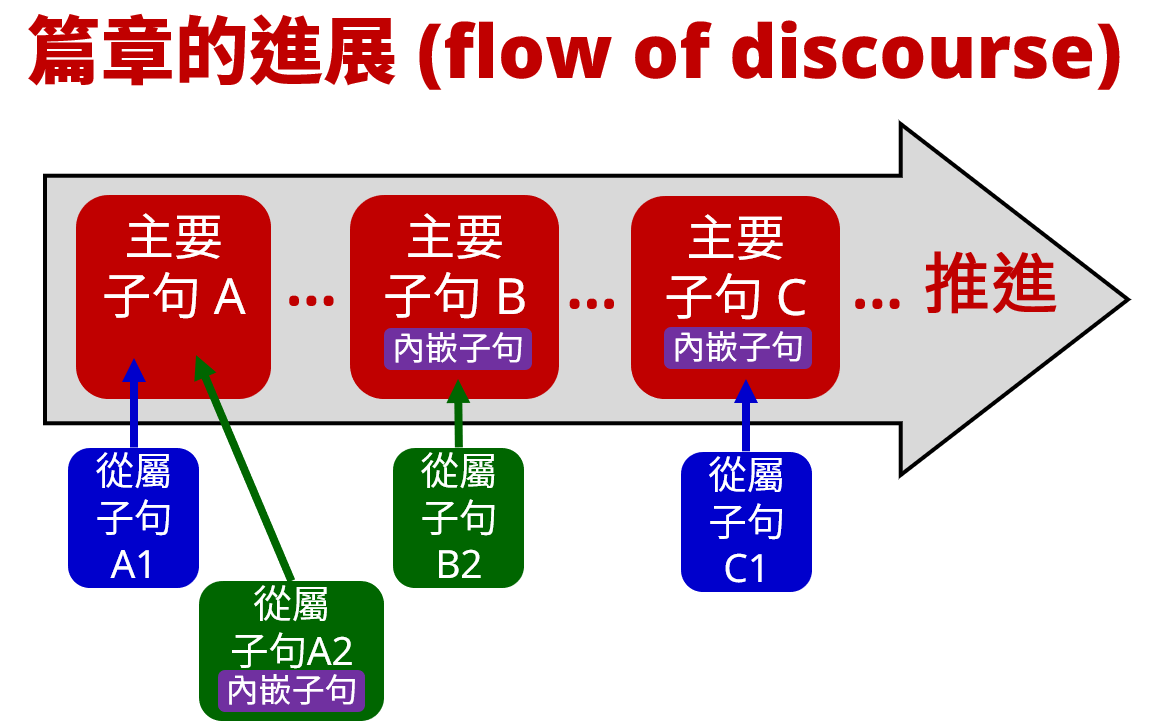
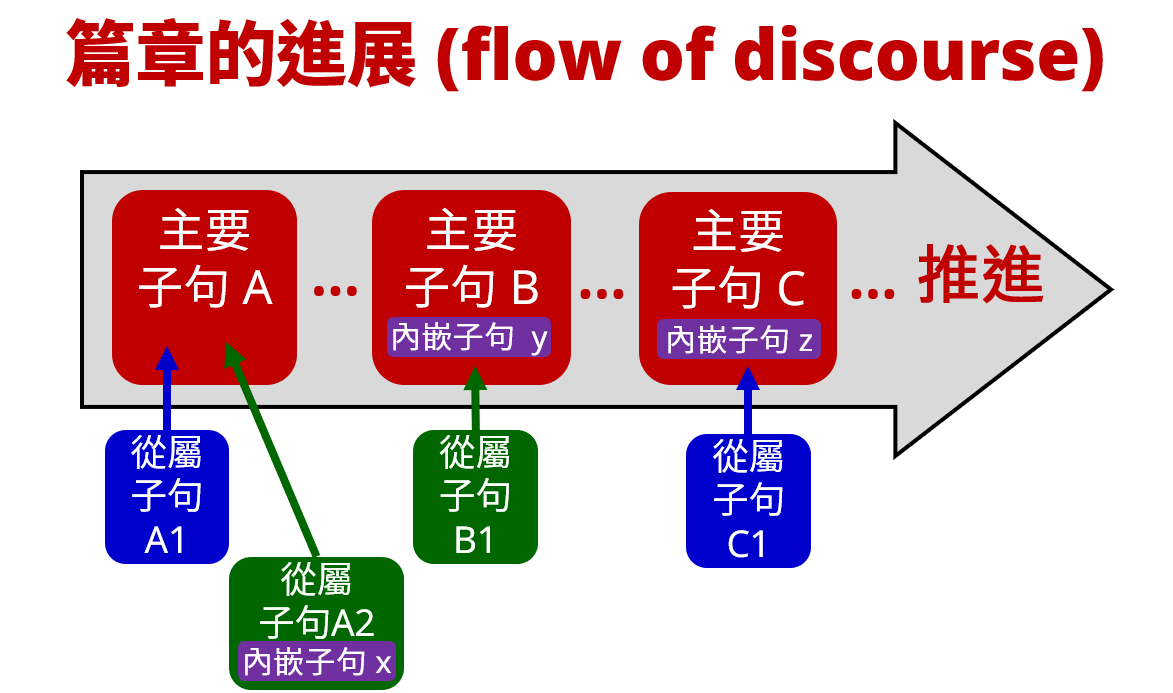
vault backup: 2021-09-12 11:48:44

Changed region(s): [[0.0311, 0.1515, 0.9965, 1.0], [0.0, 0.0, 0.9654, 0.1515]]

diff --git a/62-1John/123John-Clause.md b/62-1John/123John-Clause.md
@@ -1,16 +1,19 @@
 # 約翰書信 (123John) 子句結構
 
-
 聖經希臘文的子句結構可以分成三種：(1) 主要 (primary)、獨立 (independent) 子句；(2) 次要 (secondary)、從屬 (dependent/subordinate) 子句；(3) 內嵌 (embedded) 子句。三者的功用並不相同。  
 
-不論文字或口語，語言都是線性 (linear) 的溝通過程。發送端是一個字、一個字地傳遞出去；而接收端也是一個字、一個字地接收和理解。因此就篇章和論述 (discourse) 的思路來看，就會有以下進展的過程：
+因為就人與人溝通的特質來說，不論是文字或口語，語言都是線性 (linear) 的溝通過程。意思是：發送端 (說的人、寫的人)，是一個字、一個字地傳遞出去；而接收端 (聽的人、讀的人)，也是一個字、一個字地接收和理解。因此，從人際溝通思路的脈動來看，discourse (話語、篇章、論述) 就會有以下的進展過程：  
 
-> 用主要子句來推進到下一個論點；用從屬子句來補充、潤飾現在的論點；用內嵌子句，來當作主要子句、從屬子句中的組成元素。  
-
-![../images/discourse-flow.png](../images/discourse-flow.png)
+![](../images/discourse-flow.png)
 
 
-主要子句負責把思路推進，從 A → B → C → ……；從屬子句 A1, A2 負責補充說明論點 A；而內嵌子句則是扮演主要子句、從屬子句裡面的某個元素，可以是主語 (S)、補語 (C)，或狀語 (A)。
+在思路推進的過程中，三種子句的角色各有不同。
+
+主要子句負責把思路推進，從 論點 A → 論點 B → 論點 C → ……。
+
+從屬子句則是負責補充說明主要論點。例如：子句 A1, A2 補充說明論點 A；子句 B1 補充說明論點 B；子句 C1 補充說明論點 C。
+
+而內嵌子句，則是扮演主要子句、從屬子句裡面的某個元素。例如：內嵌子句 x，就可以是從屬子句 A2 裡的主語 (S)；而內嵌子句 y，就可以是主要子句 B 裡面的補語 (C)；而內嵌子句 z，就可以是主要子句 C 裡面的狀語 (A)。
 
 以下就從約翰書信當中列舉幾個常見的例子。
 

diff --git a/50-Philippians/Philippians-Clause.md b/50-Philippians/Philippians-Clause.md
@@ -4,16 +4,16 @@
 
 因為就人與人溝通的特質來說，不論是文字或口語，語言都是線性 (linear) 的溝通過程。意思是：發送端 (說的人、寫的人)，是一個字、一個字地傳遞出去；而接收端 (聽的人、讀的人)，也是一個字、一個字地接收和理解。因此，從人際溝通思路的脈動來看，discourse (話語、篇章、論述) 就會有以下的進展過程：  
 
-![../images/discourse-flow.png](../images/discourse-flow.png)
+![](../images/discourse-flow.png)
 
 
 在思路推進的過程中，三種子句的角色各有不同。
 
 主要子句負責把思路推進，從 論點 A → 論點 B → 論點 C → ……。
 
-從屬子句則是負責補充說明主要論點。所以子句 A1, A2 補充說明論點 A；子句 B2 補充說明論點 B；子句 C1 補充說明論點 C。
+從屬子句則是負責補充說明主要論點。例如：子句 A1, A2 補充說明論點 A；子句 B1 補充說明論點 B；子句 C1 補充說明論點 C。
 
-而內嵌子句則是扮演主要子句、從屬子句裡面的某個元素。例如子句 A2 裡面，子可以是主語 (S)、補語 (C)，或狀語 (A)。
+而內嵌子句，則是扮演主要子句、從屬子句裡面的某個元素。例如：內嵌子句 x，就可以是從屬子句 A2 裡的主語 (S)；而內嵌子句 y，就可以是主要子句 B 裡面的補語 (C)；而內嵌子句 z，就可以是主要子句 C 裡面的狀語 (A)。
 
 以下就從腓立比書中列舉幾個常見的例子。
 
